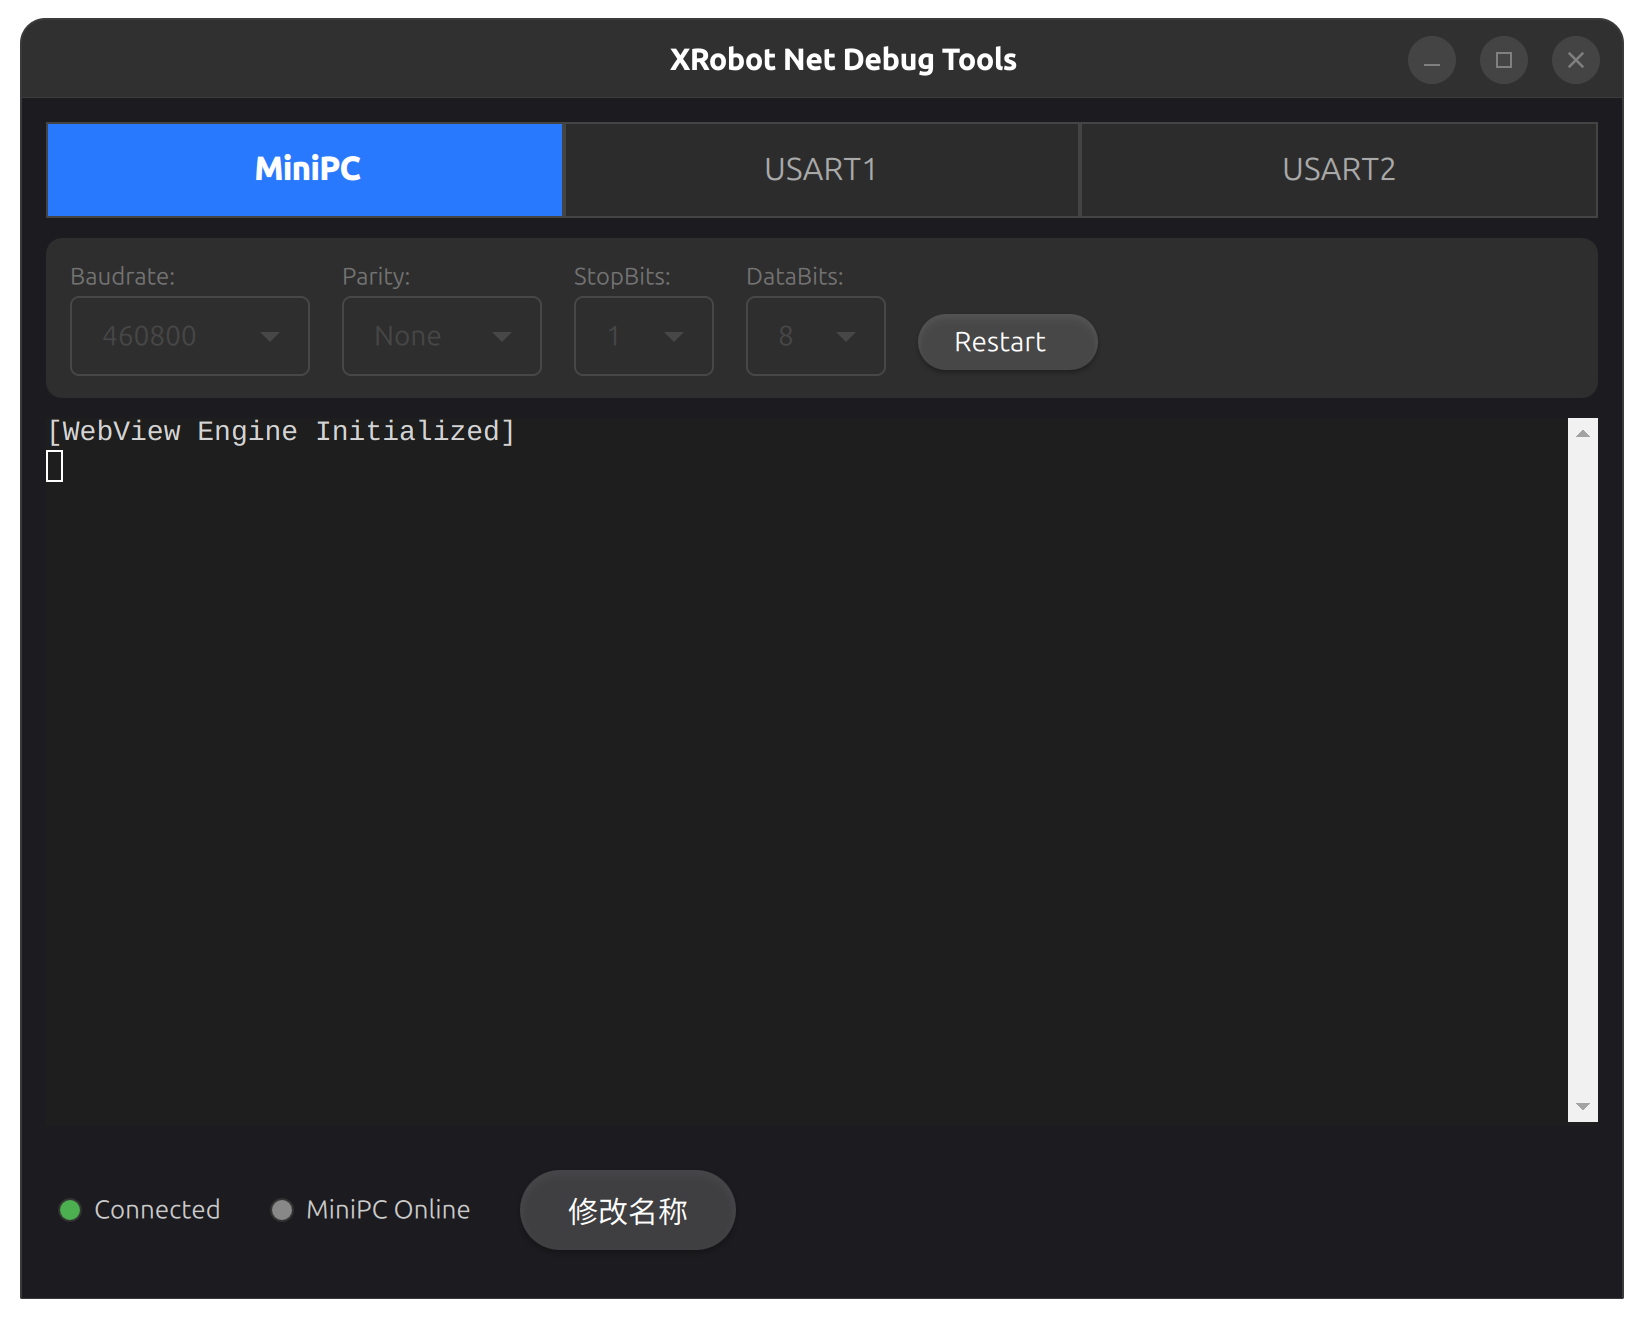
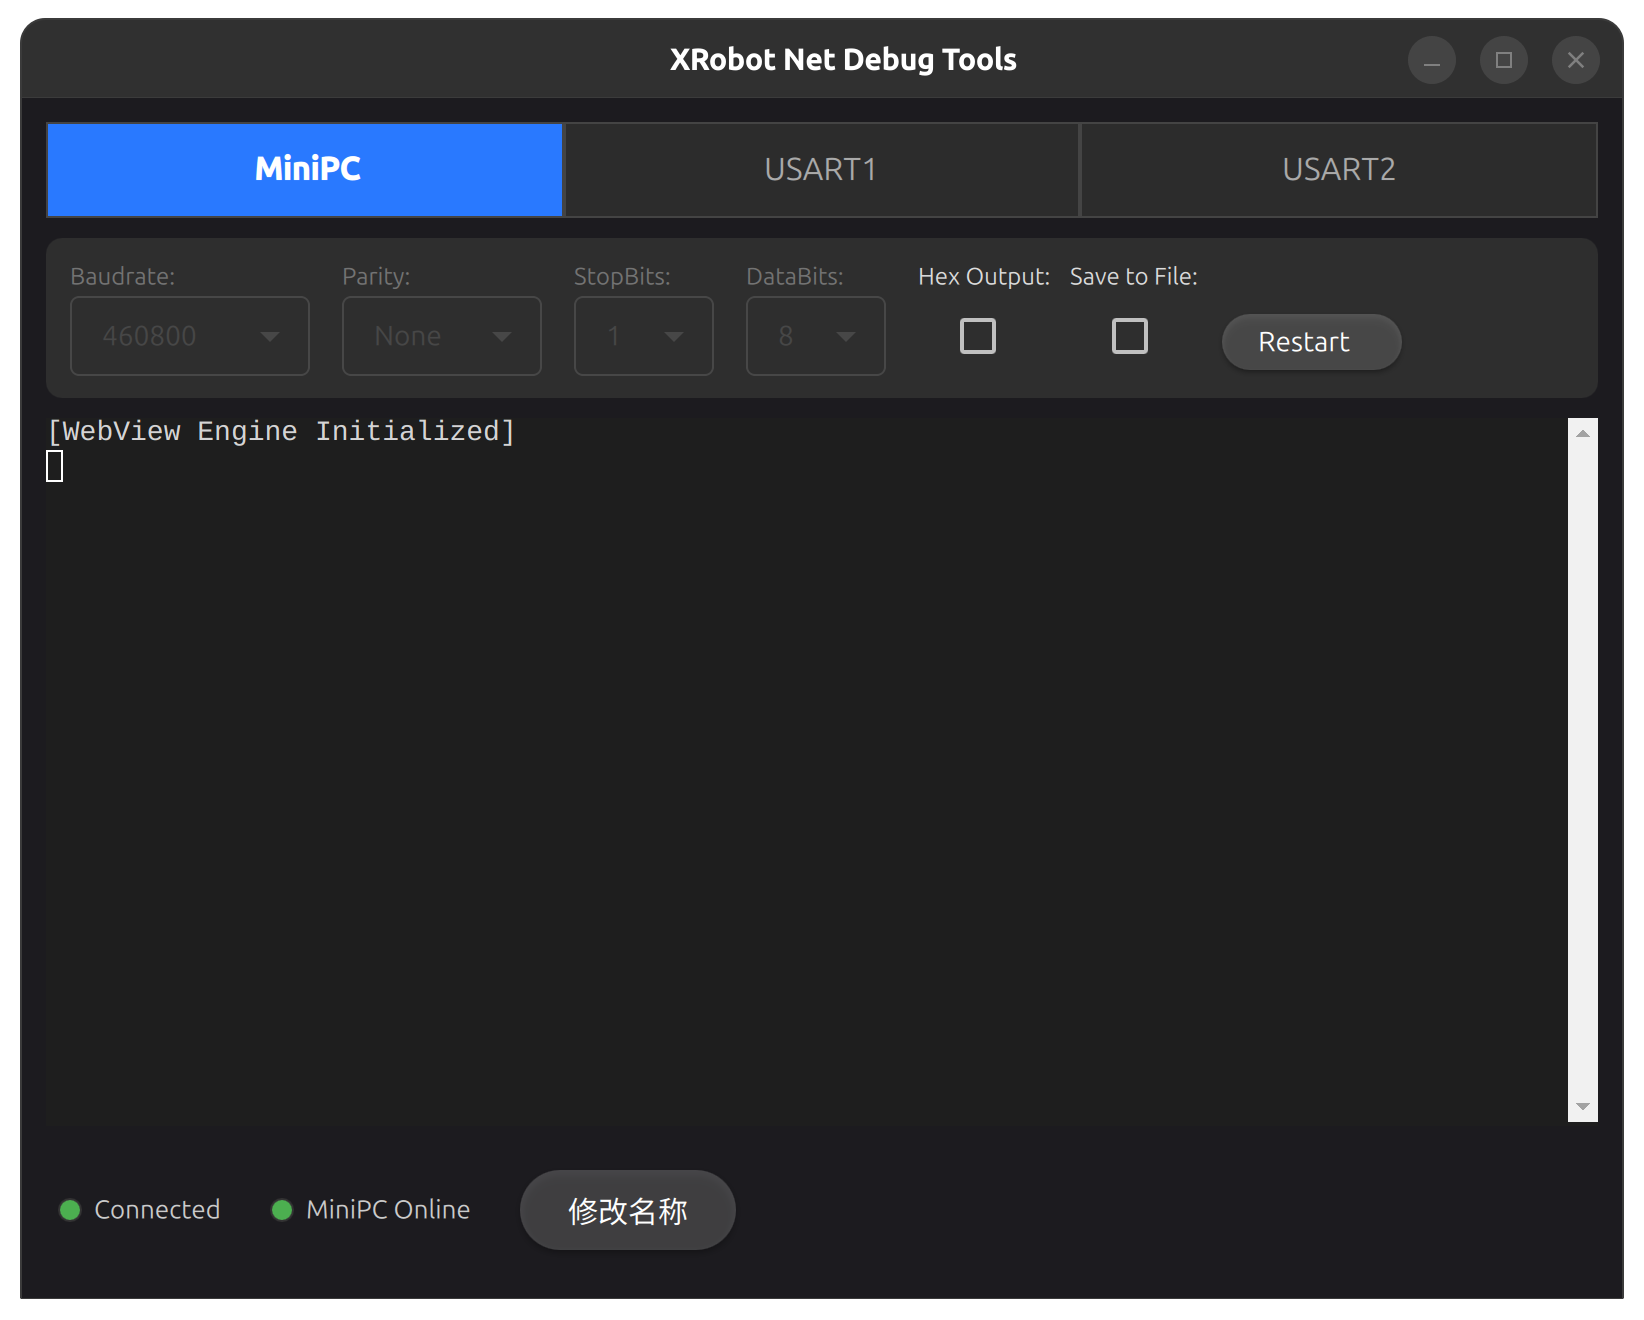
更新文档。

Changed region(s): [[0.5584, 0.1864, 0.7135, 0.2795], [0.7445, 0.2174, 0.8686, 0.2795], [0.1551, 0.9008, 0.1861, 0.9318]]

diff --git a/README.md b/README.md
@@ -1,4 +1,3 @@
-
 # NetDebugToolkit
 
 **NetDebugToolkit** 是一个集合工具包，旨在帮助用户轻松实现基于 ESP32 的远程调试、WiFi 配置和串口通信。该工具集包含以下三大核心模块：
@@ -14,7 +13,7 @@
 ## 📝 参考文档
 
 - [NetDebugHost(Linux) 编译安装指南](https://github.com/Jiu-xiao/NetDebugHost/blob/master/README.md)
-- [NetDebugLink(ESP32-C3) 编译烧录指南 & 引脚说明](https://github.com/Jiu-xiao/NetDebugLink/blob/master/README.md)
+- [NetDebugLink(ESP32-C3) 编译烧录指南 &amp; 引脚说明](https://github.com/Jiu-xiao/NetDebugLink/blob/master/README.md)
 - [NetDebugClient(GUI 客户端) 编译安装指南](https://github.com/Jiu-xiao/NetDebugClient/blob/master/README.md)
 
 ---
@@ -24,13 +23,11 @@
 ### 1. 连接与调试 ESP32 设备
 
 - **NetDebugHost** 会自动识别并连接到接入的 ESP32 设备。你只需要通过 USB 将 ESP32 连接到 Linux 主机，`NetDebugHost` 服务启动后，程序会自动识别设备并启动调试 shell。DEB包在安装时会注册并开机启动服务，无需手动启动。
-
 - 启动命令：
 
   ```bash
   sudo systemctl start netdebughost
   ```
-
 - 查看服务状态：
 
   ```bash
@@ -40,45 +37,49 @@
 ### 2. 使用 NetDebugClient 进行远程调试
 
 - **NetDebugClient** 提供了一个图形化终端界面实现终端交互。它支持对 Linux 系统进行远程重启，更改硬件串口配置等操作。
-
 - 启动命令：
+
   - 在 Linux 上：
 
     ```bash
     chmod +x NetDebugClient-x86_64.AppImage
     ./NetDebugClient-x86_64.AppImage
     ```
-
   - 在 Windows 上：
     直接运行 `NetDebugClient.exe`。
-
 - 设备查找：
+
   - 此处为设备名称的过滤器，当设备名称中包含此字符串时，会自动连接到该设备。
   - ![client_1](images/client_1.png)
-
 - Linux 上位机：
-  - 点击`Restart`可以重启上位机
+
+  - 点击 `Restart`可以重启上位机
   - 上位机上的硬件串口配置不可以修改
   - Terminal窗口会转发上位机的一个bash shell，可以进行交互
+  - 下方指示灯会显示ESP32模块（Connected）与上位机（MiniPC Online）的连接状态
   - ![client_2](images/client_2.png)
-
 - 硬件串口1/2：
+
   - 点击配置可以设置硬件串口的波特率，数据位，停止位，奇偶校验位
+  - 点击`Hex Output`可以以16进制方式显示接收到的数据
+  - 点击`Save to File`可以保存接收到的数据到文件，输出路径为`当前目录/output`
+  - 选择文本后鼠标右键可以进行复制，未选择文本时鼠标右键可以进行粘贴
   - 硬件串口无法Restart
   - ![client_3](images/client_3.png)
-
 - 修改设备名称：
-  - 连接后点击`修改名称`可以修改ESP32-C3设备名称，用于设备查找
+
+  - 连接后点击 `修改名称`可以修改ESP32-C3设备名称，用于设备查找
   - ![client_4](images/client_4.png)
 
 ### 3. 配置和管理 WiFi
 
 - **NetDebugLink** 模块支持通过 BLUFI 协议进行远程 WiFi 配置。
+
   - 若配网成功且以及通过 USB 连接到 Linux 系统，会自动同步 WiFi 配置到 Linux 系统并尝试连接。
   - 开启配网模式：
+
     - 未连接到 WiFi 时，自动开启配网模式。
     - 连接到 WiFi 时，按下按键进入配网模式。
-
   - 蓝牙配网：使用EspBluFi App 进行配网。App可以在各大应用商店或[Github](https://github.com/EspressifApp/EspBlufiForAndroid/releases)下载
 
   |     |                              |                              |                              |
